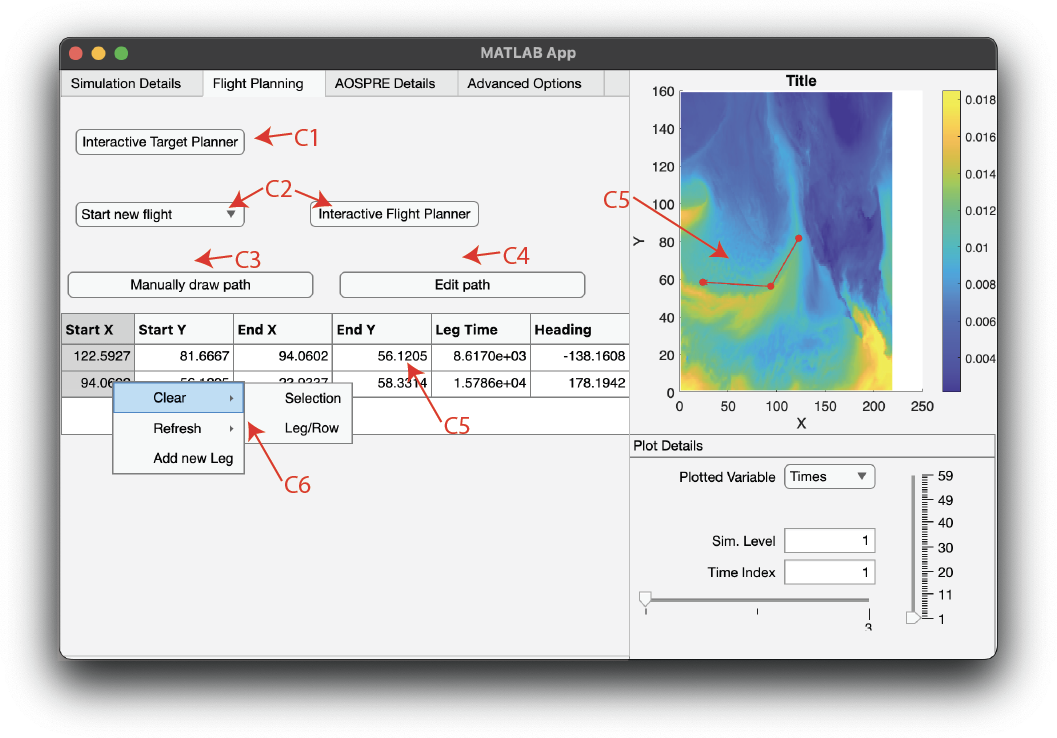
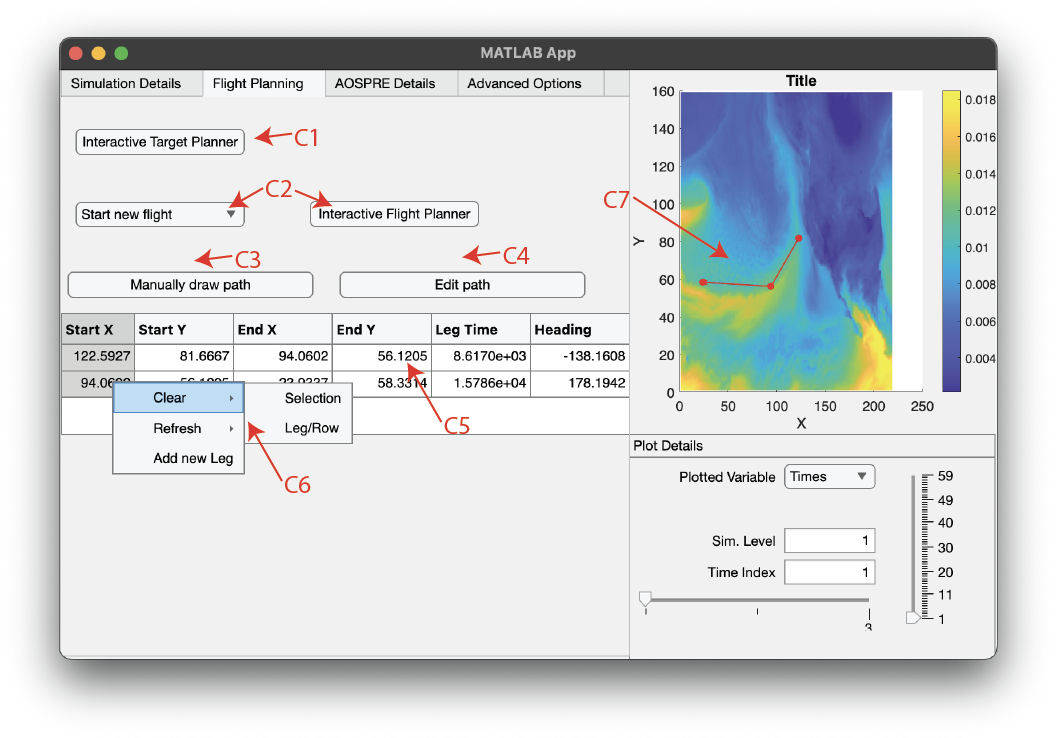
updated docs

Changed region(s): [[0.0312, 0.0623, 0.9678, 0.9661]]

diff --git a/docs/instructions.md b/docs/instructions.md
@@ -6,9 +6,9 @@ The following instructions will guide you through the various processes of AOSPR
 1. [Selecting a simulation](#data-selection)
 2. [Data visualizing](#data-visualization)
 3. [Flight planning](#flight-planning)
-4. [AOSPRE setup](#aospre-setup)
-5. [Advanced settings](#advanced-settings) 
-6. [Running AOSPRE](#running-aospre)
+4. [AOSPRE details](#aospre-setup)
+5. [Running AOSPRE](#running-aospre)
+6. [Advanced settings](#advanced-settings) 
 
 # Running AOSPRE-GUI
 To run AOSPRE-GUI, navigate to the `aospre-gui` directory in your terminal and run the following command:
@@ -19,41 +19,42 @@ matlab -r "run('AOSPRE_GUI.mlapp')"
 You may also run the `AOSPRE_GUI.mlapp` file directly from the MATLAB GUI by navigating to the aospre-gui directory and double-clicking the file.
 
 # Data selection
-## 1. Data preprocessing
+## Data preprocessing
 To ensure compatibility with AOSPRE, you must preprocess the simulations you wish to use by renaming the simulation's output files to elapsed seconds (e.g., `wrfout_0015500s.nc` where there has been 0015500 seconds since the start of the simulation). 
 
 The python script [`wrfoutToAOSPRE.py`](../helpers/wrfoutToAOSPRE.py) has been provided for the user as a template in cases where the data is not in the default `wrfout_d0X_YYYY-MM-DD_HH:MM:SS` format. If your data is in this format, you can move to the next section and the GUI will automatically rename the files for you.
 
-## 2. Selecting the data
-1. The first step in using AOSPRE-GUI is to select the data you want to use for your simulation. You can do this by manually typing the path to the data ([A1]()) or by using the file browser to navigate to the data ([A2]()). If the software detects data saved in an incorrect format, it will prompt you to automatically rename the files, simply press "Yes". Note: this process assumes that the filenames are in the default `wrfout_d0X_YYYY-MM-DD_HH:MM:SS` format.
+## Selecting the data
+- The first step in using AOSPRE-GUI is to select the data you want to use for your simulation. You can do this by manually typing the path to the data ([ File Search Pattern (A1)]()) or by using the file browser to navigate to the data ([A2]()). If the software detects data saved in an incorrect format, it will prompt you to automatically rename the files, simply press "Yes". Note: this process assumes that the filenames are in the default `wrfout_d0X_YYYY-MM-DD_HH:MM:SS` format.
 
 ![](../docs/images/data-selection.png) 
 
-2. The software will try to guess the resolution of the data based on the `XLAT` and `XLONG` variables in the data, check to make sure this is correct. You can manually correct the resolution in [A3]() if necessary.
-3. If everything proceeds without error, you can move to the [next section](#data-visualization).
+- The software will try to guess the resolution of the data based on the `XLAT` and `XLONG` variables in the data, check to make sure this is correct. You can manually correct the resolution in [Sim. Resolution (m) (A3)]() if necessary.
+- If everything proceeds without error, you can move to the [next section](#data-visualization).
 
-4. However, if there is an error selecting or preprocessing the data, you will see a message in [A5]() that will guide you on how to proceed.
+- However, if there is an error selecting or preprocessing the data, you will see a message in [A5]() that will guide you on how to proceed.
 
-4. Lastly, you may manually set the format for for the time search pattern in the filenames. The default should be correct for most users, but if you have a different format, you can set it in [A4](). The `?` character is a wildcard that will match any character, then set the `s` character at locations in the filename string that corresponds to the elapsed seconds. For example, the image above reflects a filename of `wrfout_0015500s.nc`.
+- Lastly, you may manually set the format for for the time search pattern in the filenames. The default should be correct for most users, but if you have a different format, you can set it in [File Time Pattern (A4)](). The `?` character is a wildcard that will match any character, then set the `s` character at locations in the filename string that corresponds to the elapsed seconds. For example, the image above reflects a filename of `wrfout_0015500s.nc`.
 
 # Data visualization
 A simple plotting tool is provided that allows the user to visualize the data and flight paths at the same time. 
 ![](./images/data-visualization.png)
 - [B1](./images/data-visualization.png) shows the selected variable (yellow to blue color scale) and the flight path (red line).
-- Selecting [B2](./images/data-visualization.png) will open a drop down containing all of the variables in the data. The program will try to select the vertical velocity `W`, `Q`, or `QVAPOR` variables by default. 
+- [Plotted Variable (B2)](./images/data-visualization.png) will open a drop down containing all of the variables in the data. The program will try to select the vertical velocity `W`, `Q`, or `QVAPOR` variables by default. 
     - Note: due to the nature of these data, there is no filtering out variables that are not plotted well (i.e., `TIMES`, `XLAT`, `XLONG`, etc.), if you encounter an error like "'Limits' must be a 1-by-2 array of real finite numbers that are increasing." in [A5](./images/data-selection.png), you should select a different variable.
-- The slider and edit field [B3](./images/data-visualization.png) allow the user to select the the level to plot. The program automatically selects the vertical level with the highest standard deviation for the selected variable, but you can change it to any level in the simulation.
-- The slider and edit field [B4](./images/data-visualization.png) allow the user to select the time step (or file corresponding to said time step) to plot.
+- The slider and edit field [Sim. Level (B3)](./images/data-visualization.png) allow the user to select the the level to plot. The program automatically selects the vertical level with the highest standard deviation for the selected variable, but you can change it to any level in the simulation.
+- The slider and edit field [time Index (B4)](./images/data-visualization.png) allow the user to select the time step (or file corresponding to said time step) to plot.
 
 # Flight planning
 ## Manual flight planning
 The flight planning tool allows the user to plan a flight path through the simulation data. The user can select the start and end points of the flight path, as well as the number of waypoints in between. There is also an automated flight planning tool that will generate a flight path that tries to optimize the path based on how well it observes a given target.
 ![](./images/flight-planning-1.png)
-- For [C1](./images/flight-planning-1.png) and [C2](./images/flight-planning-1.png) see [Automatic flight planning](#automated-flight-planning) for more information on the automated flight planning tool.
-- [C3](./images/flight-planning-1.png) opens up a tool for the user to manually draw waypoints on the map (see [C5](./images/flight-planning-1.png)). After pressing the button, hover over the map and click to place a waypoint. The gui will update with a blue polyline after each waypoint (see the figure below). Press `Enter` to finish placing waypoints. If a flight path is already on the map, the tool will start building the path from the last waypoint in the preexisting path.
+- For [Interactive Target Planner (C1)](./images/flight-planning-1.png) and [Interactive Flight Planner (C2)](./images/flight-planning-1.png) see [Automatic flight planning](#automated-flight-planning) for more information on the automated flight planning tool.
+- [Manually Draw Path (C3)](./images/flight-planning-1.png) opens up a tool for the user to manually draw waypoints on the map (see [C7](./images/flight-planning-1.png)). After pressing the button, hover over the map and click to place a waypoint. The GUI will update with a blue polyline after each waypoint (see the figure below). Press `Enter` to finish placing waypoints. If a flight path is already on the map, the tool will start building the path from the last waypoint in the preexisting path.
+
 ![](./images/flight-planning-2.png)
 
-- To edit the path, press [C4](./images/flight-planning-1.png). This will draw an interactive polyline on the map over the preexisting path. You can click and drag the waypoints to move them. Press `Enter` to finish editing the path. 
+- To edit the path, press [Edit Path (C4)](./images/flight-planning-1.png). This will draw an interactive polyline on the map over the preexisting path. You can click and drag the waypoints to move them. Click [Edit Path (C4)](./images/flight-planning-1.png) again to finalize the path.
 - [C5](./images/flight-planning-1.png) is a table of all legs on the flight path and their corresponding metadata:
 
 | Column | Description |
@@ -75,41 +76,42 @@ The automated flight planning tool allows the user to iteratively plan optimized
 ### Target selection application
 The first step is to choose a target for the flight to observe.
 
-To do this, select [C1](./images/flight-planning-1.png) and a new window will open (see below).
+To do this, select [Interactive Target Planenr (C1)](./images/flight-planning-1.png) and a new window will open (see below).
 ![](./images/target-planning-1.png).
-- There are three different options for choosing the target. This algorithm is based on the active contours model (Chan and Vese 2001), which is a method for segmenting images based on a 'seed' point(s), a growth tendency, and number of iterations (default is 200; set in [D7](./images/target-planning-1.png)). Positive growth tendencies tends to shrink, negative tends to grow; however, for exceptionally smooth fields (like the one shown here), you will need to use a more aggressive positive value and vice versa.
-    - [D1a](./images/target-planning-1.png) allows the user to put point ROIs on the map. Press `Esc` to finish placing points. The default growth tendency is `-0.2`, since the growth algorithm must often grow substantially outwards from each point to capture the entire target.
-    - [D1b](./images/target-planning-1.png) allows the user to draw a polyline ROI on the map. To finish, press `Enter`. The default growth tendency is `-0.1`, since the region must grow to fill the target, but not as much as the point ROI.
-    - [D1c](./images/target-planning-1.png) allows the user to draw a polygon ROI on the map. To finish drawing, completely enclose the polgygon around the desired target. The default growth tendency is `0.1`, since the region must shrink around the target.
+- There are three different options for choosing the target. This algorithm is based on the active contours model (Chan and Vese 2001), which is a method for segmenting images based on a 'seed' point(s), a growth tendency, and number of iterations (default is 200; set in [Max Iterations (D7)](./images/target-planning-1.png)). Positive growth tendencies tends to shrink, negative tends to grow; however, for exceptionally smooth fields (like the one shown here), you will need to use a more aggressive positive value and vice versa.
+    - [Draw Point ROI (D1a)](./images/target-planning-1.png) allows the user to put point ROIs on the map. Press `Esc` to finish placing points. The default growth tendency is `-0.2`, since the growth algorithm must often grow substantially outwards from each point to capture the entire target.
+    - [Draw Line ROI (D1b)](./images/target-planning-1.png) allows the user to draw a polyline ROI on the map. To finish, press `Enter`. The default growth tendency is `-0.1`, since the region must grow to fill the target, but not as much as the point ROI.
+    - [Draw Polygon ROI (D1c)](./images/target-planning-1.png) allows the user to draw a polygon ROI on the map. To finish drawing, completely enclose the polgygon around the desired target. The default growth tendency is `0.1`, since the region must shrink around the target.
 - When you are done, the program will attempt to segment the target from the background image (see below).  
 ![](./images/target-planning-2.png)
-- If you are satisfied with the results, click on [D2](./images/target-planning-1.png) to finalize the target. You may then add a new target by following the same steps. 
+- If you are satisfied with the results, click on [Finalize Target (D2)](./images/target-planning-1.png) to finalize the target. You may then add a new target by following the same steps. 
 - If you are not satisfied:
-    - You may erase contiguous regions of the target by selecting [D3](./images/target-planning-1.png) and clicking on the map (press `Esc` to finish). 
-    - You can also clear the entire target by selecting [D4](./images/target-planning-1.png).
-- After adding all targets, cleaning up the targets, and finalizing the targets, select [D5](./images/target-planning-1.png) to close the window, export the targets to the main AOSPRE-GUI software, and return to the flight planning page.
+    - You may erase contiguous regions of the target by selecting [Erase Tool (D3)](./images/target-planning-1.png) and clicking on the map (press `Esc` to finish). 
+    - You can also clear the entire target by selecting [Clear Target (D4)](./images/target-planning-1.png).
+- After adding all targets, cleaning up the targets, and finalizing the targets, select [Done/Exit (D5)](./images/target-planning-1.png) to close the window, export the targets to the main AOSPRE-GUI software, and return to the flight planning page.
 
 #### Target metadata
-- Finally, in cases where a certain target is more important, you can assign a weight to each target before finalizing. Enter your desired weight in [D6a](./images/target-planning-1.png). The flight planning program functions best when the weight of targets is greater than 5 and less than 30.
-- [D6b](./images/target-planning-1.png) allows the user to set the desired dwell time for each target. This is the amount of time the aircraft should spend observing the target. The default is 0 seconds, which means the aircraft has no limit on how long it can observe the target before the weight of the target is reduced. This setting is not yet fully implemented in the flight planning algorithm, but it will be in the future.
+- Finally, in cases where a certain target is more important, you can assign a weight to each target before finalizing. Enter your desired weight in [Target Weight (D6a)](./images/target-planning-1.png). The flight planning program functions best when the weight of targets is greater than 5 and less than 30.
+- [Target Dwell Time (D6b)](./images/target-planning-1.png) allows the user to set the desired dwell time for each target. This is the amount of time the aircraft should spend observing the target. The default is 0 seconds, which means the aircraft has no limit on how long it can observe the target before the weight of the target is reduced. This setting is not yet fully implemented in the flight planning algorithm, but it will be in the future.
+
 ### Flight planning application
 After selecting the targets, the user can begin the automated flight planning process. First, in the dropdown [C2](./images/flight-planning-1.png) select 'Start new flight' to erase any existing flight path, or 'Continue' to build off a preexisting path. Then select `Interactive Flight Planner`. A new window will open (see below). This algorithm is a modified version of rapidly expanding random trees (LaValle and Kuffner 1999). The details of this algorithm are in [flight-planning-details.md](./flight-planning-details.md).
 ![](./images/flight-planning-3.png)
 #### Training settings
-- [E1a](./images/flight-planning-3.png) sets the desired path length (in hours) for the flight.
-- [E1b](./images/flight-planning-3.png) sets the learning rate. This is how quickly the algorithm reduces the number of random samples in the environment vs. the number of samples near high-quality paths. The default is `0.008`, which means the algorithm will spend the first $\frac{0.5}{0.008}\sim 63$ iterations learning the environment before only sampling points near high-quality legs. For complex environments, the learning rate should be lower than the default, but simpler environments may benefit from a higher learning rate.
-- [E1c](./images/flight-planning-3.png) sets the number of iterations the algorithm will run. The default is `100`, which is sufficient for most environments.
-- [E1d](./images/flight-planning-3.png) sets the number of new nodes to add to the network simultaneously. The nodes in a single parallel computation will not build on one another, just the pre-existing network. The default is `100`, which is sufficient for most environments.
+- [Desired Path Length (E1a)](./images/flight-planning-3.png) sets the desired path length (in hours) for the flight.
+- [Learning Rate(E1b)](./images/flight-planning-3.png) sets the learning rate. This is how quickly the algorithm reduces the number of random samples in the environment vs. the number of samples near high-quality paths. The default is `0.008`, which means the algorithm will spend the first $\frac{0.5}{0.008}\sim 63$ iterations learning the environment before only sampling points near high-quality legs. For complex environments, the learning rate should be lower than the default, but simpler environments may benefit from a higher learning rate.
+- [Number of Iterations (E1c)](./images/flight-planning-3.png) sets the number of iterations the algorithm will run. The default is `100`, which is sufficient for most environments.
+- [Number of Parellel Paths (E1d)](./images/flight-planning-3.png) sets the number of new nodes to add to the network simultaneously. The nodes in a single parallel computation will not build on one another, just the pre-existing network. The default is `100`, which is sufficient for most environments.
 
 #### Running the program
-- Set the start position and direction of the aircraft by pressing [E2a](./images/flight-planning-3.png) and clicking and dragging on the map. The aircraft will start at the point where you first pressed the mouse button. In cases where you are continuing a path, the aircraft will start at the last waypoint in the preexisting path.
-- Press [E2b](./images/flight-planning-3.png) to finalize the start position. After this is pressed, the blue line will turn into a red arrow. You can always change the start position by pressing [E2a](./images/flight-planning-3.png) again. This button will also reset the network if you choose to restart the training.
-- Press [E2c](./images/flight-planning-3.png) to begin the training process. The program will run the algorithm for the number of iterations set in [E1c](./images/flight-planning-3.png). 
+- [Set Start for flight (E2a)](./images/flight-planning-3.png) can be used to set the start point and direction of the aircraft. Click and drag on the map in the direction to start. The aircraft will start at the point where you first pressed the mouse button. In cases where you are continuing a path, the aircraft will start at the last waypoint in the preexisting path.
+- [Finalize Start/Reset (E2b)](./images/flight-planning-3.png) to finalize the start position. After this is pressed, the blue line will turn into a red arrow. You can always change the start position by pressing [Set Start for Flight (E2a)](./images/flight-planning-3.png) again. This button will also reset the network if you choose to restart the training.
+- [Begin Training (E2c)](./images/flight-planning-3.png) to begin the training process. The program will run the algorithm for the number of iterations set in [E1c](./images/flight-planning-3.png). 
     - The program will update the map with the new path after every second iteration.
     - The network will condense (combine nearby nodes $<3$ km apart) every 10 iterations.
     - The network will trim (remove low-quality paths) every 4 iterations after the halfway point in training.
     - See [flight-planning-details.md](./flight-planning-details.md) for more information on the algorithm.
-- Press the start and stop buttons [E2d](./images/flight-planning-3.png) to start and stop the training process. The program will automatically stop after the number of iterations set in [E1c](./images/flight-planning-3.png) is reached.
+- Press the [Begin/continue training](./images/flight-planning-3.png) and [Stop Training](./images/flight-planning-3.png) buttons to start and stop the training process. The program will automatically stop after the number of iterations set in [E1c](./images/flight-planning-3.png) is reached.
 
 #### Plotting tools
 There are three main parts to the plotted network:
@@ -117,8 +119,30 @@ There are three main parts to the plotted network:
 - The red contours ([E3b](./images/flight-planning-3.png)) are the regions of high quality legs where the algorithm is more likely to sample points. These will shift throughout the training process as the network learns the environment.
 - The blue paths ([E3c](./images/flight-planning-3.png)) are the paths that the algorithm has deemed high quality. You can select a path by clicking on it, and the program will highlight the path in green. You may stop the training at any time and pick a path.
 #### Saving the path and exporting to the main GUI
-- After you have selected a path, press [E4](./images/flight-planning-3.png) to finalize the path and press [E5](./images/flight-planning-3.png) to export the path to the main GUI. These buttons will turn green when you can press them.
+- After you have selected a path, press [Finalize Path (E4)](./images/flight-planning-3.png) to finalize the path and press [Done/Exit (E5)](./images/flight-planning-3.png) to export the path to the main GUI. These buttons will turn green when you can press them.
     - Note: the path may dissapear after pressing 'Finalize Path'. This is normal, since the path object has been moved to a buffer before being moved to the main GUI.
-- As before, you may edit this path manually or interactively by pressing [C4](./images/flight-planning-1.png) in the main GUI after exporting the path.
+- As before, you may edit this path manually or interactively by pressing [Edit path (C4)](./images/flight-planning-1.png) in the main GUI after exporting the path.
 
-# AOSPRE setup
+# AOSPRE details
+The third tab in the GUI has several options for choosing details of the aircraft and the simulation.
+![](./images/aospre-details.png)
+
+## Simulation details
+- [path to AOSPRE (F1)](./images/aospre-details.png) set the global path to the AOSPRE executable here.
+- [Start Time (F2)](./images/aospre-details.png) allows the user to set the start time of the AOSPRE simulation. The default is the first time step in the simulation. You can also set the time by clicking on the slider---the program will round to the nearest time step.
+## Aircraft, Panel, and Scan settings ([F4](./images/aospre-details.png))
+- [Aircraft Vel.](./images/aospre-details.png) allows the user to set the aircraft velocity in meters per second. The default is $120$ m s $^{-1}$.
+- [Angular Resolution](./images/aospre-details.png) sets the angular resolution of the aircraft's sensors. The default is $1.5$ degrees.
+- [Fore/Aft](./images/aospre-details.png) sets the fore/aft angles for a forward/rearward scan. The default is 5 and 35 degrees, respectively. 
+
+## Running AOSPRE 
+Pressing [Init. AOSPRE (F5)](./images/aospre-details.png) will write the namelists, scanning tables, and executable to run AOSPRE.
+    - The scanlists and namelists are written to the `./output/scanlists/` and `./output/namelists/` directories, respectively.
+    - A bash script is written to `./output/run-aospre.sh` that will run the AOSPRE executable with the namelists and scanlists. 
+
+# Advanced settings
+The fourth tab in the GUI has several advanced settings for the user to set. These do not need to be modified for the program to run, but may be useful for more advanced users. The names of these settings are the same as the variables in the AOSPRE namelists, so you can refer to the AOSPRE [namelist documentation](https://github.com/NCAR/AOSPRE/blob/main/docs/namelist.md) for more information on each setting.
+
+![](./images/advanced-settings.png)
+
+
